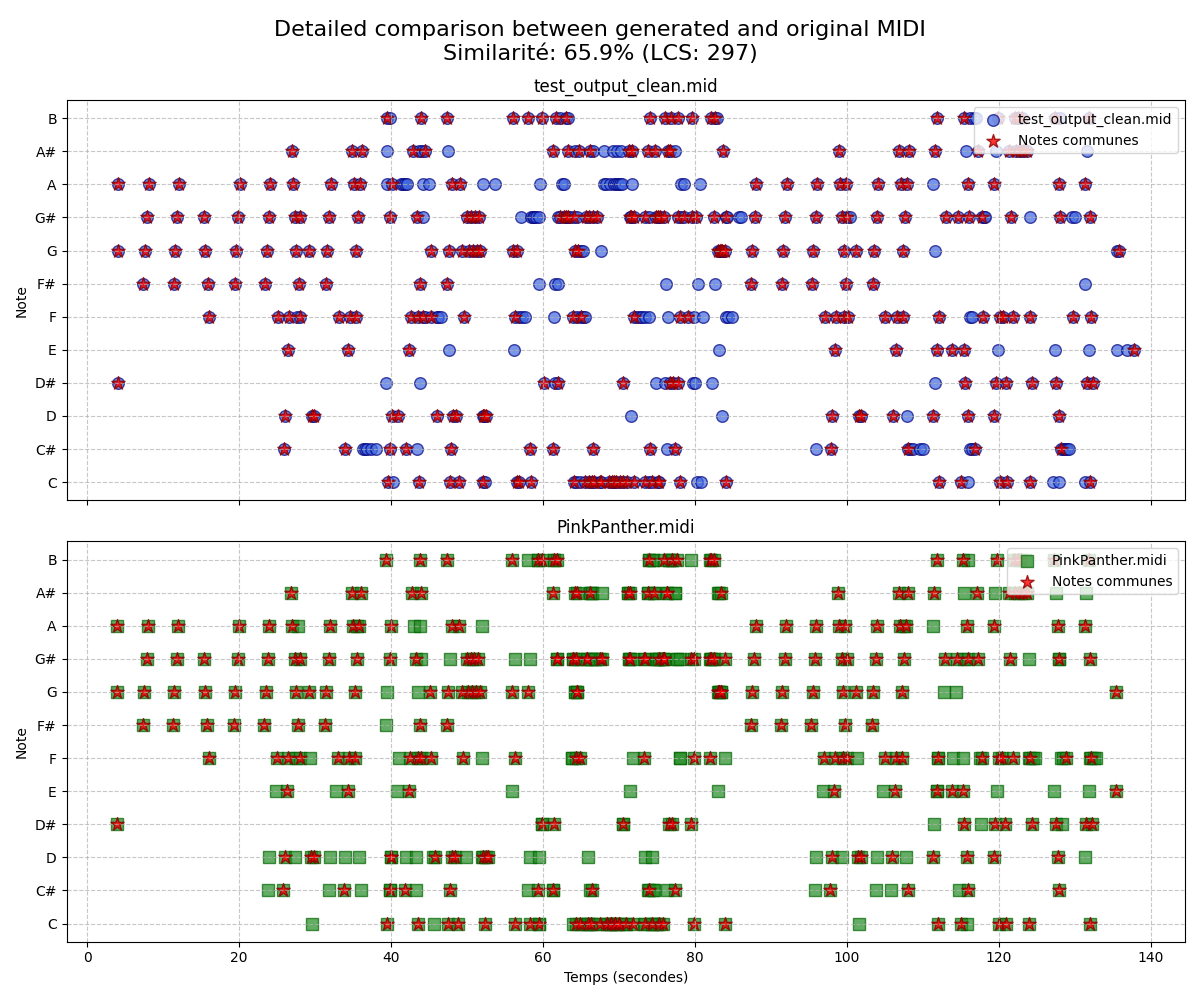
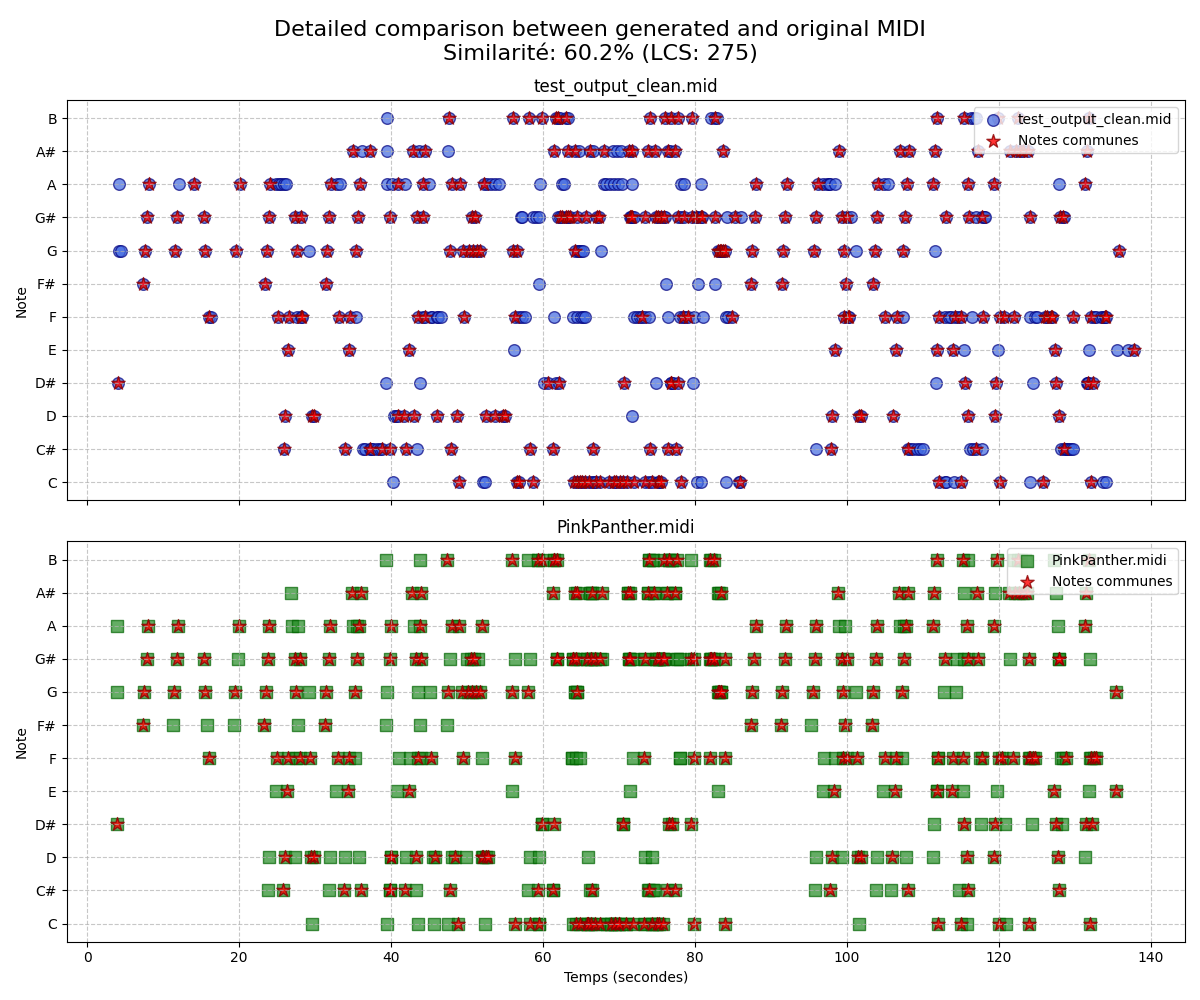
forgot abs

diff --git a/src/FFT.py b/src/FFT.py
@@ -8,7 +8,7 @@ from matplotlib.widgets import TextBox, Button
 import WriteMidiFile
 import MidiComparison
 
-AUDIO_FILE = os.path.join("media","wav","Gamme.wav")
+AUDIO_FILE = os.path.join("media","wav","PinkPanther_Both.wav")
 
 fs, data = wavfile.read(AUDIO_FILE)  #Return the sample rate (in samples/sec) and data from an LPCM WAV file
 audio = data.T[0]       # 1st channel of wav
@@ -26,7 +26,7 @@ NOTE_NAMES = ["do", "do#", "ré", "ré#", "mi", "fa", "fa#", "sol", "sol#", "la"
 
 STEP_NUMBER = int(len(audio)/FFT_WINDOW_SIZE)
 
-BASE_TRESH = 150000
+BASE_TRESH = 100000
 ANY_TRESH = 3000
 
 def extract_sample(audio, step):    #exctrats window size sample from audio with zero-padding
@@ -292,14 +292,15 @@ def freq_anal(values):
                     piano_indice += np.log(abs(1+piano_comparison[freq[0]]*base_freq-freq[1].amplitude))/freq[0]
                     trumpet_indice += np.log(abs(1+trumpet_comparison[freq[0]]*base_freq-freq[1].amplitude))/freq[0]
                     """
-                    piano_indice += np.log(piano_comparison[freq[0]]*base_freq / freq[1].amplitude)
-                    trumpet_indice += np.log(trumpet_comparison[freq[0]]*base_freq / freq[1].amplitude)
+                    piano_indice += abs(np.log(piano_comparison[freq[0]]*base_freq / freq[1].amplitude))
+                    trumpet_indice += abs(np.log(trumpet_comparison[freq[0]]*base_freq / freq[1].amplitude))
 
                     #print("piano_indice:",piano_indice)
 
                     #print("pian",piano_comparison[freq[0]]-(freq[1].amplitude/base_freq))
                     #print("trum",trumpet_comparison[freq[0]]-(freq[1].amplitude/base_freq))
-            #print("piano",piano_indice)
+            print("piano",piano_indice)
+            print("trumpet", trumpet_indice)
             #print("trumpet",trumpet_indice)
 
             if len(bunch) >1:
@@ -488,18 +489,19 @@ totalvalues = hide_noise(totalvalues,2)
 
 test_write_midi_file(piano_values,trumpet_values)
 
-"""
+
 print("PIANO HEREEEEEEEEE")
 printvalues(piano_values)
 print("TRUMPET HEREEEEEEEEE")
+
 printvalues(trumpet_values)
-"""
-#plot()
+
+plot()
 
 
 
 midi_a = os.path.join("media", "midi", "test_output_clean.mid")
-midi_b = os.path.join("media", "midi", "Gamme.mid")
+midi_b = os.path.join("media", "midi", "PinkPanther.midi")
 similarity, lcs_len, len1, len2 = MidiComparison.compare_midis(midi_a, midi_b)
 print(f"Similarity: {similarity:.2f}%")
 

diff --git a/src/MidiComparison.py b/src/MidiComparison.py
@@ -272,7 +272,7 @@ def compare_midis_instruments(midi1, midi2):
 
 if __name__ == "__main__":
     midi_a = os.path.join("media", "midi", "test_output_clean.mid")
-    midi_b = os.path.join("media", "midi", "PinkPanther.midi")
+    midi_b = os.path.join("media", "midi", "Gamme.mid")
 
     similarity, lcs_len, len1, len2 = compare_midis(midi_a, midi_b)
     print("--- Without Instruments ---")
